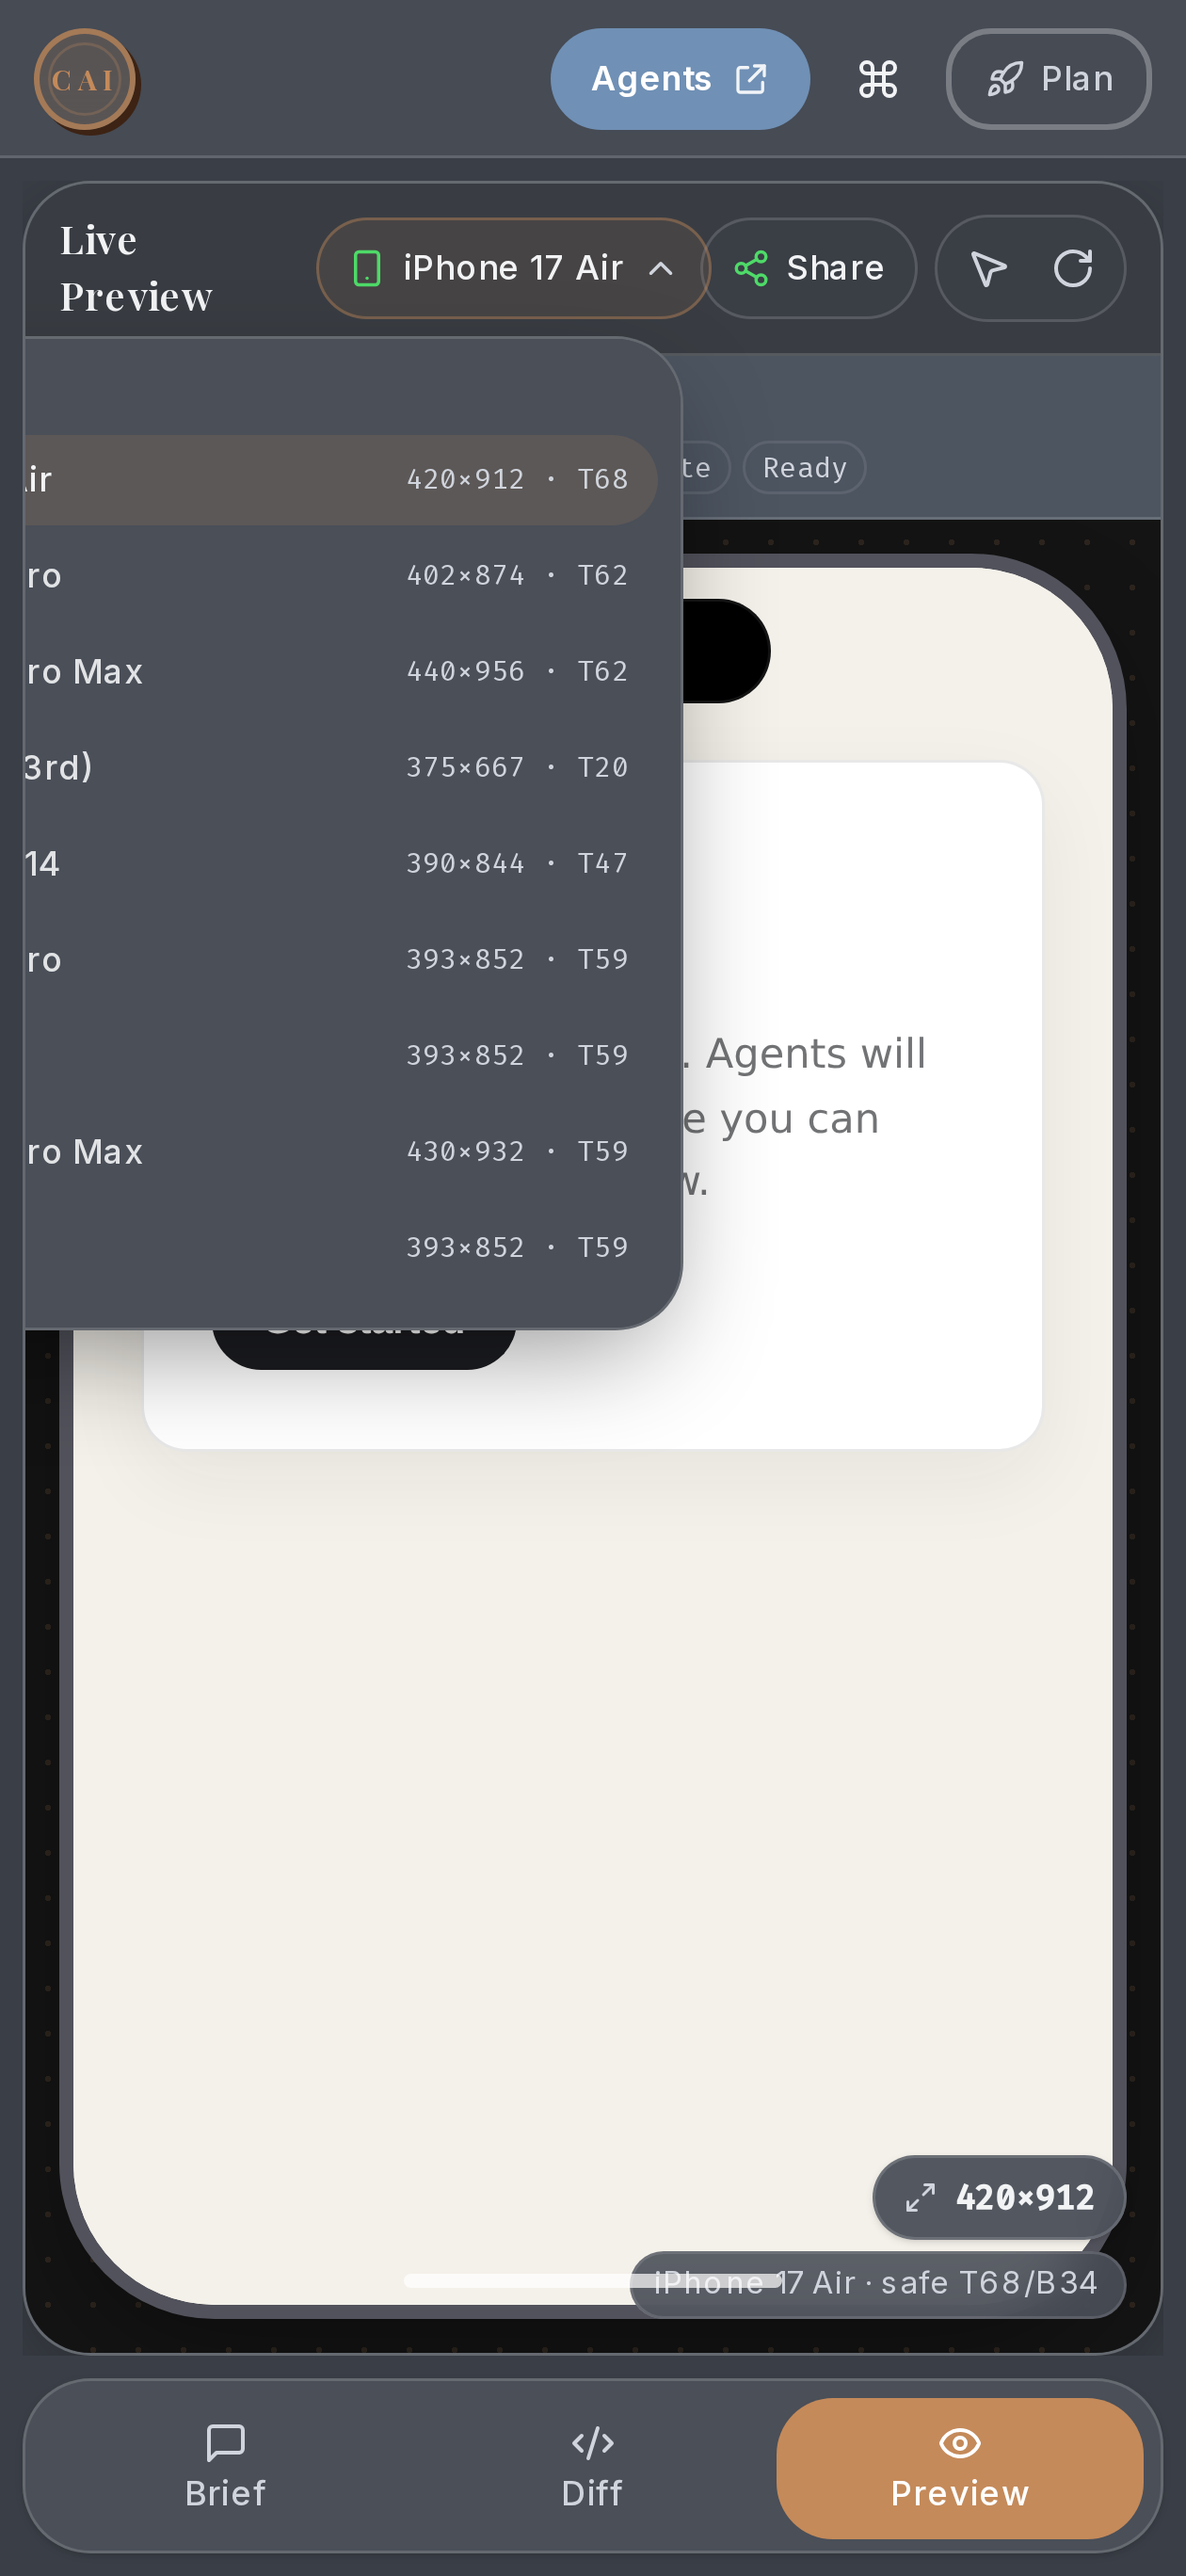
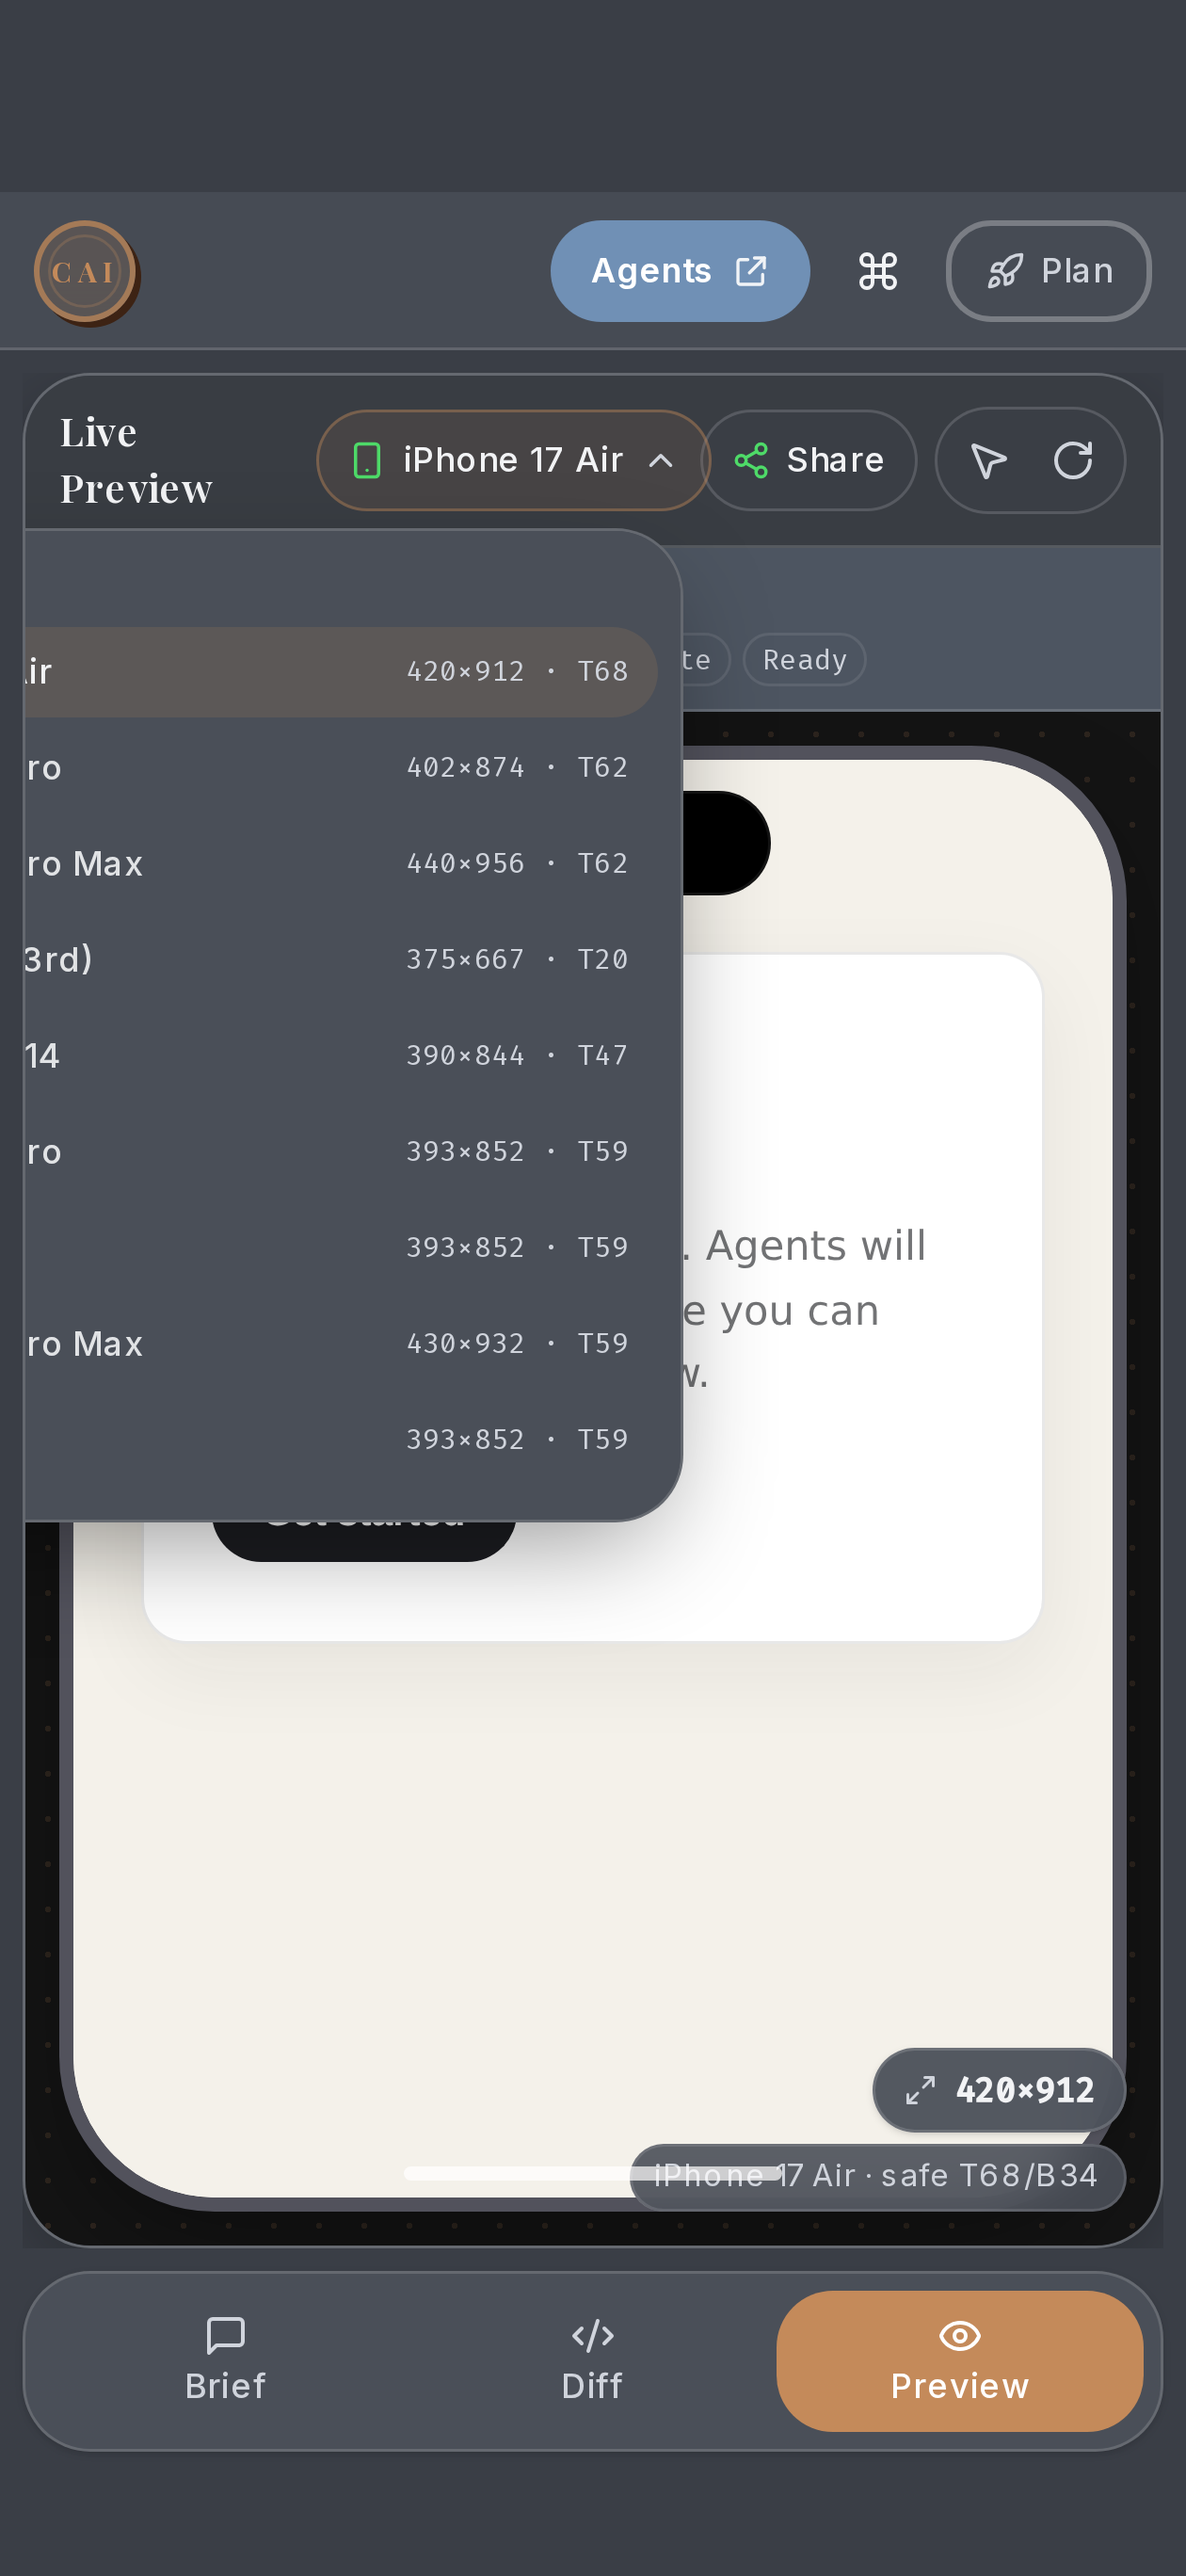
fix(mobile): real iPhone safe-area under Dynamic Island (pad shell + fallback)
Video QA on real device showed TopBar/landing chrome under the camera:
empty spacers + env()=0 in in-app browsers left zero inset.

- cosy-safe-shell pads with --sat/--sab (box-sizing) instead of spacers
- cosy-sticky-top for landing header under island
- SAFE_AREA_BOOT + safe-area.ts: 68/34 fallback on tall iOS when env=0
- landing mock 420×912 (drop SE 375×667)
- contract tests for pad shell + fallback

Refs: useyourloaf iPhone Air 420×912 T68/B34

diff --git a/src/lib/safe-area.ts b/src/lib/safe-area.ts
@@ -1,0 +1,100 @@
+/**
+ * iPhone 17 Air / notched iOS safe-area bootstrap.
+ *
+ * Some in-app browsers report env(safe-area-inset-*) = 0 even with
+ * viewport-fit=cover. On tall iPhones we raise CSS fallbacks so chrome
+ * never sits under the Dynamic Island / camera.
+ *
+ * Docs: https://useyourloaf.com/blog/iphone-17-screen-sizes/
+ *   iPhone Air: portrait safe top 68 / bottom 34
+ */
+
+const AIR_TOP = "68px";
+const AIR_BOTTOM = "34px";
+const NOTCH_TOP = "59px";
+const NOTCH_BOTTOM = "34px";
+
+function readEnvInset(side: "top" | "bottom" | "left" | "right"): number {
+  if (typeof document === "undefined") return 0;
+  const el = document.createElement("div");
+  el.style.cssText = `position:fixed;visibility:hidden;padding-${side}:env(safe-area-inset-${side},0px)`;
+  document.documentElement.appendChild(el);
+  const v = parseFloat(getComputedStyle(el).getPropertyValue(`padding-${side}`)) || 0;
+  el.remove();
+  return v;
+}
+
+function isIOS(): boolean {
+  if (typeof navigator === "undefined") return false;
+  return /iPhone|iPad|iPod/i.test(navigator.userAgent) ||
+    (navigator.platform === "MacIntel" && navigator.maxTouchPoints > 1);
+}
+
+/** Logical aspect ≈ tall notched phone (SE is ~1.78; Air/Pro ≥ ~2.0). */
+function isTallPhone(): boolean {
+  if (typeof window === "undefined") return false;
+  const w = Math.min(window.screen.width, window.screen.height);
+  const h = Math.max(window.screen.width, window.screen.height);
+  if (w < 1) return false;
+  return h / w >= 1.95;
+}
+
+/** Very tall / wide modern flagship → Air-class top inset (68). */
+function isAirClass(): boolean {
+  if (typeof window === "undefined") return false;
+  const w = Math.min(window.screen.width, window.screen.height);
+  const h = Math.max(window.screen.width, window.screen.height);
+  // iPhone Air logical 420×912; physical @3x 1260×2736 — screen often reports points or px
+  return h / w >= 2.12 || w >= 414;
+}
+
+/**
+ * Apply fallback CSS vars on <html>. Safe to call multiple times.
+ * Returns the effective top/bottom px used for diagnostics.
+ */
+export function applySafeAreaFallbacks(): { top: number; bottom: number; usedFallback: boolean } {
+  if (typeof document === "undefined") {
+    return { top: 0, bottom: 0, usedFallback: false };
+  }
+  const root = document.documentElement;
+  const envTop = readEnvInset("top");
+  const envBottom = readEnvInset("bottom");
+
+  let usedFallback = false;
+  if (isIOS() && isTallPhone() && envTop < 20) {
+    const top = isAirClass() ? AIR_TOP : NOTCH_TOP;
+    const bottom = envBottom < 10 ? (isAirClass() ? AIR_BOTTOM : NOTCH_BOTTOM) : "0px";
+    root.style.setProperty("--sat-fallback", top);
+    if (bottom !== "0px") root.style.setProperty("--sab-fallback", bottom);
+    usedFallback = true;
+  } else {
+    root.style.removeProperty("--sat-fallback");
+    root.style.removeProperty("--sab-fallback");
+  }
+
+  root.setAttribute("data-safe-top", String(Math.max(envTop, usedFallback ? (isAirClass() ? 68 : 59) : 0)));
+  root.setAttribute("data-safe-bottom", String(Math.max(envBottom, usedFallback && envBottom < 10 ? 34 : 0)));
+  root.setAttribute("data-safe-fallback", usedFallback ? "1" : "0");
+
+  return {
+    top: Math.max(envTop, usedFallback ? (isAirClass() ? 68 : 59) : 0),
+    bottom: Math.max(envBottom, usedFallback && envBottom < 10 ? 34 : 0),
+    usedFallback,
+  };
+}
+
+/** Call once from root client + on orientation change. */
+export function installSafeAreaListener(): () => void {
+  if (typeof window === "undefined") return () => {};
+  applySafeAreaFallbacks();
+  const onChange = () => applySafeAreaFallbacks();
+  window.addEventListener("orientationchange", onChange);
+  window.addEventListener("resize", onChange);
+  // visualViewport shifts when Safari chrome shows/hides
+  window.visualViewport?.addEventListener("resize", onChange);
+  return () => {
+    window.removeEventListener("orientationchange", onChange);
+    window.removeEventListener("resize", onChange);
+    window.visualViewport?.removeEventListener("resize", onChange);
+  };
+}

diff --git a/src/styles.css b/src/styles.css
@@ -183,46 +183,101 @@
 }
 
 /* ── iPhone 17 Air / Dynamic Island safe areas ─────────────────
- * Touch targets MUST sit below the camera (safe-area-inset-top)
- * and above the Home Indicator (safe-area-inset-bottom).
+ * Touch targets MUST sit BELOW the camera (safe-area-inset-top)
+ * and ABOVE the Home Indicator (safe-area-inset-bottom).
  * Requires <meta name="viewport" content="…, viewport-fit=cover">.
+ * Docs: useyourloaf.com/blog/iphone-17-screen-sizes
+ *   iPhone Air: 420×912 · portrait safe top 68 / bottom 34
+ *
+ * --sat/--sab set from env(); JS may raise --sat-fallback on tall iOS
+ * when a webview reports 0 (common in in-app browsers).
  */
+:root {
+  --sat: max(env(safe-area-inset-top, 0px), var(--sat-fallback, 0px));
+  --sab: max(env(safe-area-inset-bottom, 0px), var(--sab-fallback, 0px));
+  --sal: max(env(safe-area-inset-left, 0px), var(--sal-fallback, 0px));
+  --sar: max(env(safe-area-inset-right, 0px), var(--sar-fallback, 0px));
+}
+
+/* Full-screen app chrome (Studio, Mobile companion) — pad under island */
 .cosy-safe-shell {
-  /* fill the visual viewport including under island when system allows */
+  box-sizing: border-box;
   min-height: 100dvh;
   min-height: -webkit-fill-available;
+  height: 100dvh;
+  height: 100svh;
+  max-height: 100dvh;
+  padding-top: var(--sat);
+  padding-bottom: var(--sab);
+  padding-left: var(--sal);
+  padding-right: var(--sar);
 }
 
-.cosy-safe-top {
-  /* Real device: env() · simulator/desktop: 0 */
-  height: env(safe-area-inset-top, 0px);
-  min-height: env(safe-area-inset-top, 0px);
-  flex-shrink: 0;
-  pointer-events: none;
+/* Scroll pages (landing): NO shell pad — sticky header owns top inset */
+.cosy-page {
+  box-sizing: border-box;
+  min-height: 100dvh;
+  min-height: -webkit-fill-available;
+  padding-left: var(--sal);
+  padding-right: var(--sar);
+  padding-bottom: var(--sab);
 }
 
+/* Sticky top bar: background paints under island; controls sit BELOW camera */
+.cosy-sticky-top {
+  position: sticky;
+  top: 0;
+  z-index: 40;
+  padding-top: var(--sat);
+}
+
+/* Legacy empty spacers — zero when shell already pads (no double gap) */
+.cosy-safe-top,
 .cosy-safe-bottom {
-  height: env(safe-area-inset-bottom, 0px);
-  min-height: env(safe-area-inset-bottom, 0px);
+  display: none;
+  height: 0;
+  min-height: 0;
   flex-shrink: 0;
   pointer-events: none;
+}
+
+/* Only use spacer mode when shell is NOT padding (opt-in) */
+.cosy-safe-shell-spacers > .cosy-safe-top {
+  display: block;
+  height: var(--sat);
+  min-height: var(--sat);
+}
+.cosy-safe-shell-spacers > .cosy-safe-bottom {
+  display: block;
+  height: var(--sab);
+  min-height: var(--sab);
+}
+.cosy-safe-shell-spacers {
+  padding-top: 0;
+  padding-bottom: 0;
 }
 
 .cosy-safe-bottom-pad {
-  /* Tab bar: keep labels above Home Indicator */
-  padding-bottom: max(0.25rem, env(safe-area-inset-bottom, 0px));
+  /* Extra breathing room above Home Indicator when shell already padded */
+  padding-bottom: 0.25rem;
 }
 
 .cosy-safe-x {
-  padding-left: max(0.75rem, env(safe-area-inset-left, 0px));
-  padding-right: max(0.75rem, env(safe-area-inset-right, 0px));
+  padding-left: max(0.75rem, var(--sal));
+  padding-right: max(0.75rem, var(--sar));
 }
 
-/* Fixed overlays (HitL, modals) — lift above Home Indicator */
+/* Fixed overlays (HitL, modals) — above Home Indicator, never under camera */
 .cosy-fixed-bottom {
-  bottom: max(0.75rem, env(safe-area-inset-bottom, 0px));
-  padding-left: max(0.75rem, env(safe-area-inset-left, 0px));
-  padding-right: max(0.75rem, env(safe-area-inset-right, 0px));
+  bottom: max(0.75rem, var(--sab));
+  padding-left: max(0.75rem, var(--sal));
+  padding-right: max(0.75rem, var(--sar));
+}
+
+.cosy-fixed-top {
+  top: max(0.5rem, var(--sat));
+  padding-left: max(0.75rem, var(--sal));
+  padding-right: max(0.75rem, var(--sar));
 }
 
 /* Readable body copy helper */

diff --git a/src/routes/__root.tsx b/src/routes/__root.tsx
@@ -1,4 +1,5 @@
-import type { ReactNode } from "react";
+import { useEffect, type ReactNode } from "react";
+import { installSafeAreaListener } from "@/lib/safe-area";
 import {
   Outlet,
   createRootRoute,
@@ -9,6 +10,9 @@ import { Toaster } from "sonner";
 import appCss from "@/styles.css?url";
 
 /** Inline: silver (dark) default before React hydrates; respect saved theme. */
+/** Inline: raise --sat-fallback on tall iOS when env(safe-area)=0 (in-app browsers). */
+const SAFE_AREA_BOOT = `(function(){try{var ua=navigator.userAgent||"";var ios=/iPhone|iPad|iPod/i.test(ua)||(navigator.platform==="MacIntel"&&navigator.maxTouchPoints>1);if(!ios)return;var w=Math.min(screen.width,screen.height),h=Math.max(screen.width,screen.height);if(w<1||h/w<1.95)return;var d=document.createElement("div");d.style.cssText="position:fixed;visibility:hidden;padding-top:env(safe-area-inset-top,0px)";document.documentElement.appendChild(d);var pt=parseFloat(getComputedStyle(d).paddingTop)||0;d.remove();if(pt>=20)return;var air=h/w>=2.12||w>=414;var r=document.documentElement;r.style.setProperty("--sat-fallback",air?"68px":"59px");r.style.setProperty("--sab-fallback","34px");r.setAttribute("data-safe-fallback","1");}catch(e){}})();`;
+
 const THEME_BOOT = `(function(){try{var k="cozy-ai-studio-v1";var raw=localStorage.getItem(k);var t="dark";if(raw){var p=JSON.parse(raw);var s=p&&(p.state||p);if(s&&s.theme==="light")t="light";}var d=document.documentElement;if(t==="dark")d.classList.add("dark");else d.classList.remove("dark");}catch(e){document.documentElement.classList.add("dark");}})();`;
 
 export const Route = createRootRoute({
@@ -75,6 +79,7 @@ export const Route = createRootRoute({
 });
 
 function RootComponent() {
+  useEffect(() => installSafeAreaListener(), []);
   return (
     <RootDocument>
       <Outlet />
@@ -99,6 +104,7 @@ function RootDocument({ children }: Readonly<{ children: ReactNode }>) {
       <head>
         <HeadContent />
         <script dangerouslySetInnerHTML={{ __html: THEME_BOOT }} />
+        <script dangerouslySetInnerHTML={{ __html: SAFE_AREA_BOOT }} />
       </head>
       <body className="min-h-dvh bg-background text-foreground antialiased">
         {children}

diff --git a/src/routes/index.tsx b/src/routes/index.tsx
@@ -113,7 +113,7 @@ function LandingPage() {
   };
 
   return (
-    <div className="min-h-dvh bg-background text-foreground overflow-x-hidden cosy-safe-shell">
+    <div className="min-h-dvh bg-background text-foreground overflow-x-hidden cosy-page">
       <div
         aria-hidden
         className="pointer-events-none fixed inset-0 -z-10"
@@ -123,7 +123,7 @@ function LandingPage() {
         <div className="absolute top-[40%] right-[-10%] h-[360px] w-[360px] rounded-full bg-choco-soft/40 blur-3xl dark:bg-choco/10" />
       </div>
 
-      <header className="sticky top-0 z-40 border-b border-border/70 bg-background/75 backdrop-blur-xl pt-[env(safe-area-inset-top,0px)]">
+      <header className="cosy-sticky-top border-b border-border/70 bg-background/85 backdrop-blur-xl">
         <div className="mx-auto flex h-16 max-w-6xl items-center justify-between px-4 sm:px-6">
           <Link to="/" className="flex items-center gap-2.5 group">
             <CozyLogo size="md" variant="seal" className="group-hover:-translate-y-px transition-transform" />
@@ -355,7 +355,7 @@ function LandingPage() {
                       Aurora Café
                     </p>
                     <p className="text-xs text-muted-foreground mt-1.5 max-w-[12rem] leading-relaxed">
-                      Mobilný frame · 375×667 · chocolate accent
+                      iPhone 17 Air · 420×912 · safe T68 · chocolate accent
                     </p>
                     <div className="mt-4 h-9 w-28 rounded-xl bg-choco text-white text-xs font-medium flex items-center justify-center">
                       Objednať
@@ -507,7 +507,7 @@ function LandingPage() {
         </section>
       </main>
 
-      <footer className="border-t border-border bg-muted/20 pb-[max(0px,env(safe-area-inset-bottom,0px))]">
+      <footer className="border-t border-border bg-muted/20">
         <div className="mx-auto max-w-6xl px-4 sm:px-6 py-10 flex flex-col sm:flex-row items-center justify-between gap-4 text-sm text-muted-foreground">
           <div className="flex items-center gap-2">
             <CozyLogo size="sm" variant="seal" />

diff --git a/src/components/studio/StudioShell.tsx b/src/components/studio/StudioShell.tsx
@@ -66,11 +66,11 @@ export function StudioShell() {
 
   return (
     <div
-      className="flex h-dvh flex-col overflow-hidden bg-background cosy-safe-shell"
+      className="flex flex-col overflow-hidden bg-background cosy-safe-shell"
       data-studio-shell
+      data-safe-shell="pad"
     >
-      {/* Top safe zone: keeps chrome BELOW Dynamic Island / camera on iPhone 17 Air */}
-      <div className="cosy-safe-top shrink-0" data-safe-top-spacer aria-hidden />
+      {/* Shell padding (cosy-safe-shell) keeps TopBar BELOW Dynamic Island / camera */}
       <TopBar />
 
       {isDesktop ? (
@@ -116,7 +116,7 @@ export function StudioShell() {
           {/* Bottom tab bar sits above Home Indicator */}
           <nav
             data-mobile-tabbar
-            className="mt-2 flex shrink-0 items-center justify-around rounded-2xl border border-border bg-card p-1.5 shadow-sm cosy-safe-bottom-pad"
+            className="mt-2 mb-0.5 flex shrink-0 items-center justify-around rounded-2xl border border-border bg-card p-1.5 shadow-sm"
           >
             {(
               [
@@ -148,7 +148,6 @@ export function StudioShell() {
       <RejectionPoll />
       <CommandPalette />
       <ProductionLaunchHost />
-      <div className="cosy-safe-bottom shrink-0" data-safe-bottom-spacer aria-hidden />
     </div>
   );
 }

diff --git a/src/routes/mobile.tsx b/src/routes/mobile.tsx
@@ -117,12 +117,11 @@ function MobileCompanionPage() {
 
   return (
     <div
-      className="min-h-dvh bg-background flex flex-col cosy-safe-shell"
+      className="flex flex-col bg-background cosy-safe-shell"
       data-mobile-companion
+      data-safe-shell="pad"
     >
-      {/* Keep chrome BELOW Dynamic Island / camera on iPhone 17 Air */}
-      <div className="cosy-safe-top shrink-0" aria-hidden />
-      <header className="flex items-center justify-between border-b border-border px-4 h-14 cosy-safe-x shrink-0">
+      <header className="flex items-center justify-between border-b border-border px-4 h-14 shrink-0">
         <Link
           to="/studio"
           className="inline-flex items-center gap-1.5 text-sm text-muted-foreground min-h-11"
@@ -295,7 +294,6 @@ function MobileCompanionPage() {
         )}
       </div>
       {/* Home Indicator clearance */}
-      <div className="cosy-safe-bottom shrink-0" aria-hidden />
-    </div>
+          </div>
   );
 }
